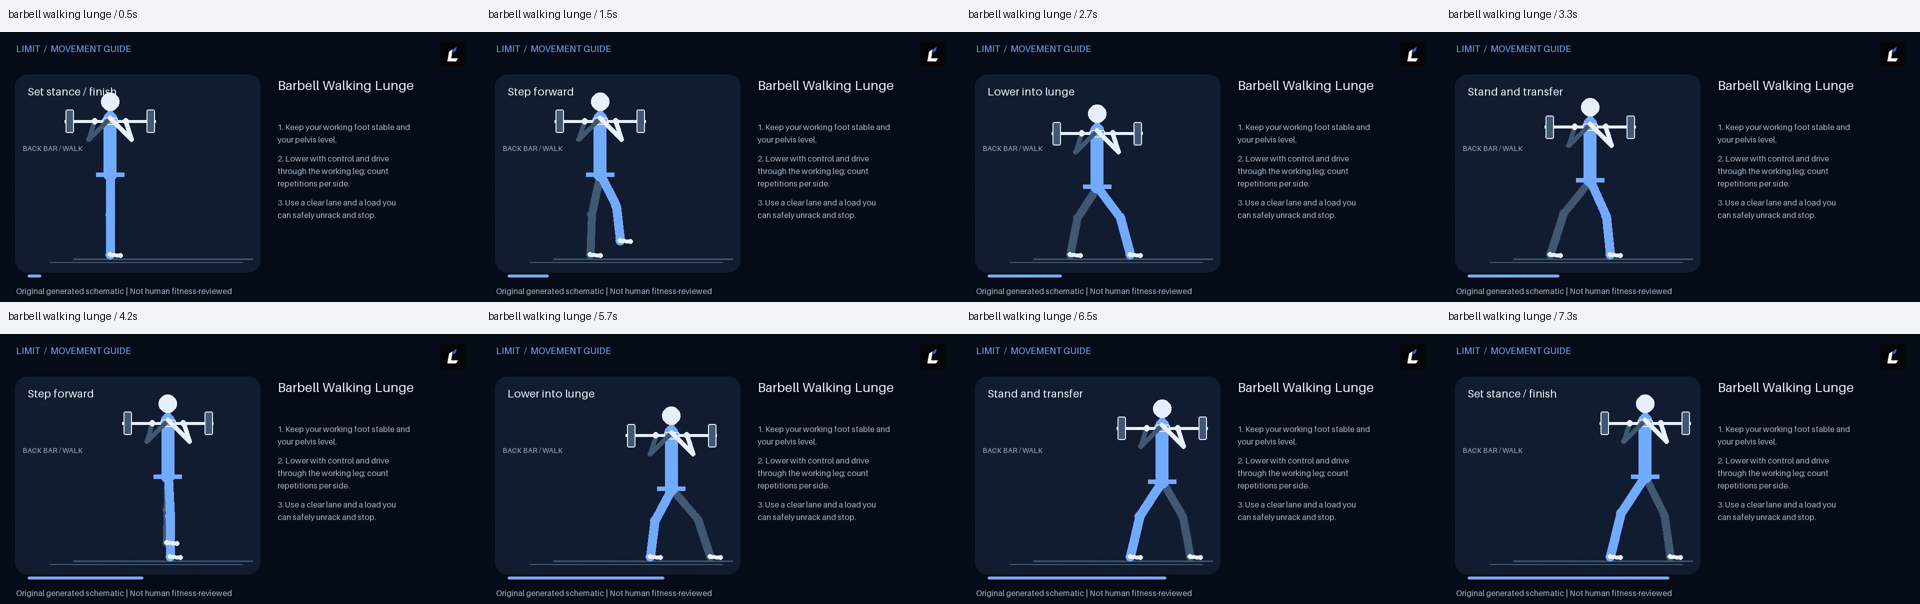
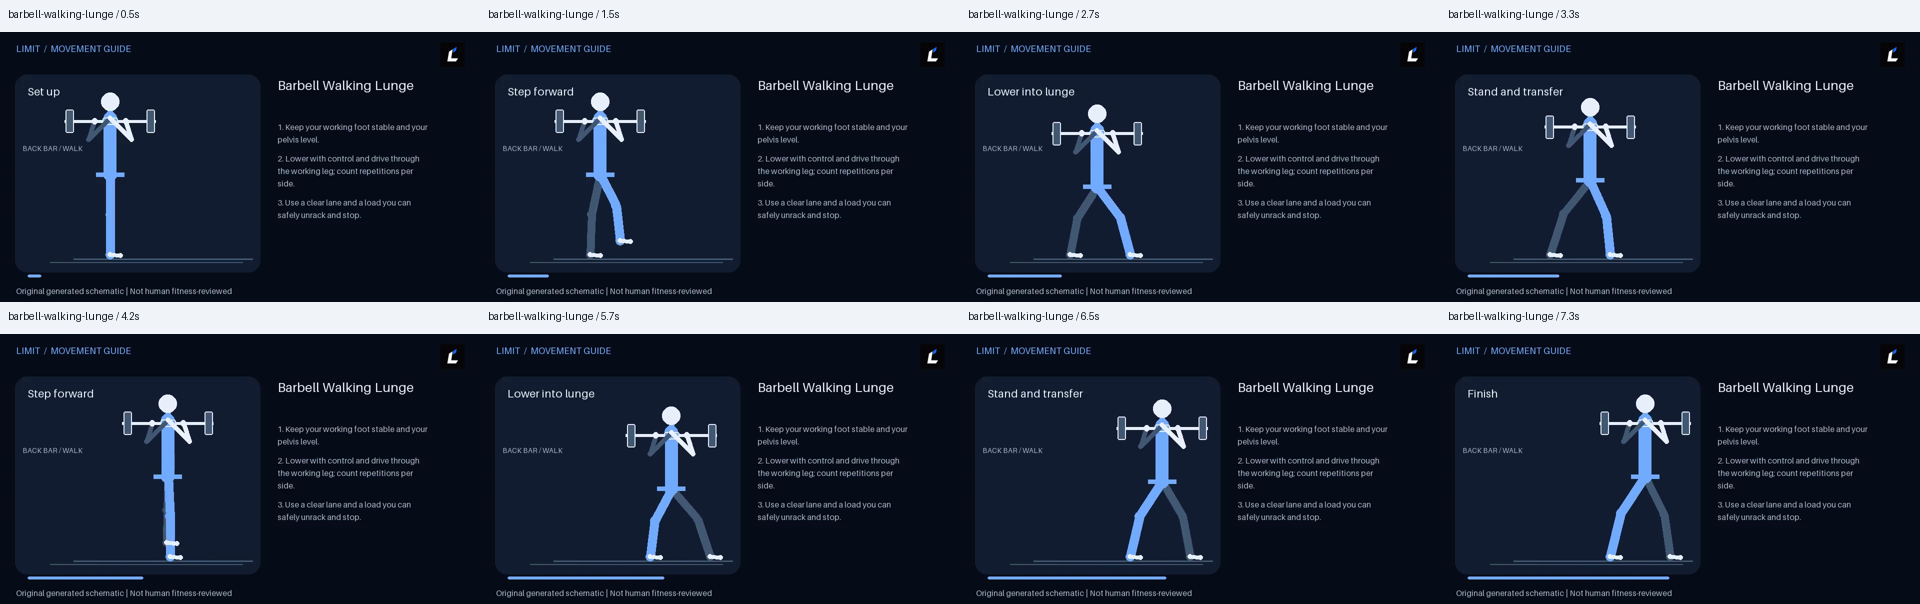
Fit complete movement cues and add machine lateral raise

diff --git a/scripts/media/render.py b/scripts/media/render.py
@@ -168,6 +168,7 @@ TEMPLATES={
  'arnold-press':('overhead-press','arnold-seated'),
  'single-arm-cable-lateral-raise':('cable-shoulder-raise','lateral'),
  'leaning-cable-lateral-raise':('leaning-cable-lateral',None),
+ 'machine-lateral-raise':('machine-lateral',None),
  'cable-front-raise':('cable-shoulder-raise','front'),
  'barbell-bench-press':('barbell-horizontal-press','flat'),
  'incline-barbell-bench-press':('barbell-horizontal-press','incline'),
@@ -1695,6 +1696,39 @@ def draw_pose(d,kind,option,u):
    d.ellipse((hand[0]+8*math.cos(math.pi*u)-3,hand[1]+8*math.sin(math.pi*u)-3,hand[0]+8*math.cos(math.pi*u)+3,hand[1]+8*math.sin(math.pi*u)+3),fill=BLUE)
   else:d.rounded_rectangle((hand[0]-12,hand[1]-5,hand[0]+12,hand[1]+5),3,fill=FAR,outline=INK,width=2)
   d.text((52,237),{'barbell-standing':'STRICT / LEGS STILL','barbell-seated':'SEATED / FRONT PATH','smith-seated':'GUIDED RAIL / STOPS','machine-seated':'SEAT / MOVING LEVER','kettlebell-standing':'BELL RACK TO LOCKOUT','arnold-seated':'ROTATE WHILE PRESSING'}[option],font=FONTS[14],fill=MUTED)
+ elif kind=='machine-lateral':
+  # Front-view seated machine: shoulder-aligned independent lever pivots
+  # carry elbow pads on fixed arcs, with bent forearms gripping the handles.
+  d.rounded_rectangle((260,208,340,347),6,fill=FAR)
+  d.rounded_rectangle((250,347,350,361),4,fill=FAR,outline=INK,width=2)
+  for sx in (263,337):d.line((sx,361,sx,456),fill=FAR,width=7)
+  hip=(300,337);neck=(300,218);head=(300,174)
+  for side in (-1,1):
+   limb(d,[hip,(300+side*51,392),(300+side*63,445)],BLUE,16)
+   line(d,(300+side*63,445),(300+side*80,448),INK,8)
+  line(d,hip,neck,BLUE,28);line(d,neck,head,BLUE,11)
+  d.ellipse((282,154,318,194),fill=INK)
+  for side in (-1,1):
+   pivot=(300+side*31,218)
+   angle=math.pi/2-side*math.pi*u/2 if side>0 else math.pi/2+math.pi*u/2
+   elbow=polar(pivot,72,angle);outer=polar(pivot,111,angle)
+   if abs(math.dist(pivot,elbow)-72)>1e-6 or abs(math.dist(pivot,outer)-111)>1e-6 or elbow[1]<215:raise ValueError('Machine lateral lever path changed')
+   d.line((*pivot,*outer),fill=FAR,width=7)
+   d.ellipse((pivot[0]-9,pivot[1]-9,pivot[0]+9,pivot[1]+9),fill=FAR,outline=INK,width=2)
+   d.ellipse((outer[0]-13,outer[1]-13,outer[0]+13,outer[1]+13),fill=FAR,outline=INK,width=3)
+   limb(d,[pivot,elbow],INK if side>0 else FAR,12)
+   hand=(elbow[0]+side*8,elbow[1]+24)
+   forearm_depth=math.sqrt(60**2-8**2-24**2)
+   if abs(math.dist((elbow[0],elbow[1],0),(hand[0],hand[1],forearm_depth))-60)>1e-6:raise ValueError('Machine lateral bent forearm changed')
+   line(d,elbow,hand,INK if side>0 else FAR,9)
+   d.rounded_rectangle((elbow[0]-11,elbow[1]-9,elbow[0]+11,elbow[1]+9),4,fill=BLUE,outline=INK,width=2)
+   d.rounded_rectangle((hand[0]-7,hand[1]-5,hand[0]+7,hand[1]+5),3,fill=INK)
+  d.text((45,187),'SEAT / ELBOW PADS / LEVERS',font=FONTS[14],fill=MUTED)
+  d.rounded_rectangle((43,371,186,455),7,fill=BG,outline=FAR,width=2)
+  d.text((50,376),'SIDE / BENT ELBOW',font=FONTS[14],fill=MUTED)
+  d.line((76,432,114,410),fill=BLUE,width=8)
+  d.line((114,410,143,426),fill=INK,width=7)
+  d.ellipse((108,404,120,416),fill=BLUE)
  elif kind=='leaning-cable-lateral':
   # The free hand fixes the lean against the column; the opposite arm
   # abducts on an invariant-length shoulder arc with a taut low cable.
@@ -4110,15 +4144,25 @@ def draw_pose(d,kind,option,u):
 def wrap(d,text,x,y,width=39,size=18,color=MUTED):
  for ln in textwrap.wrap(text,width):d.text((x,y),ln,font=FONTS[size],fill=color);y+=size+9
  return y
+def cue_layout(e):
+ # Fit every complete catalog cue in the right panel; fail rather than
+ # silently replace required movement instructions with an ellipsis.
+ y=max(180,90+len(textwrap.wrap(e['name'],24))*35+15)
+ lines=[]
+ for i,cue in enumerate(e.get('instructions',[])[:3]):
+  for ln in textwrap.wrap(f'{i+1}. {cue}',42,break_long_words=False,break_on_hyphens=False):
+   if FONTS[16].getlength(ln)>390:raise ValueError('Exercise cue exceeds panel width: '+e['catalogKey'])
+   lines.append((y,ln));y+=25
+  y+=13
+ if lines and lines[-1][0]+18>490:raise ValueError('Exercise cues exceed panel height: '+e['catalogKey'])
+ return lines
+for item in catalog:cue_layout(item)
 logo=Image.open(root/'public/brand/limit-logo.png').convert('RGBA');logo.thumbnail((110,50))
 def frame(e,t,template=None):
  im=Image.new('RGB',(W,H),BG);d=ImageDraw.Draw(im);d.rounded_rectangle((30,85,520,480),24,fill=CARD)
  d.text((32,22),'LIMIT  /  MOVEMENT GUIDE',font=FONTS[18],fill=BLUE)
  wrap(d,e['name'],555,90,24,26,INK)
- y=max(180,90+len(textwrap.wrap(e['name'],24))*35+15)
- for i,cue in enumerate(e.get('instructions',[])[:3]):
-  short=textwrap.shorten(cue,width=95,placeholder='…')
-  y=wrap(d,f'{i+1}. {short}',555,y,36,16)+13
+ for y,ln in cue_layout(e):d.text((555,y),ln,font=FONTS[16],fill=MUTED)
  if template:
   if template[0]=='alternating-curl':
    u,label=alternating_phase(t);draw_pose(d,'alternating-curl',0 if t<4 else 1,u)
@@ -4133,7 +4177,7 @@ def frame(e,t,template=None):
   elif template[0]=='barbell-hinge' and template[1]=='paused':
    u,label=paused_deadlift_phase(t);draw_pose(d,*template,u)
   elif template[0]=='walking-lunge':
-   label='Step forward' if 1<=t<2 or 3.5<=t<5 else ('Lower into lunge' if 2<=t<3 or 5<=t<6 else ('Stand and transfer' if 3<=t<3.5 or 6<=t<6.7 else 'Set stance / finish'))
+   label='Step forward' if 1<=t<2 or 3.5<=t<5 else ('Lower into lunge' if 2<=t<3 or 5<=t<6 else ('Stand and transfer' if 3<=t<3.5 or 6<=t<6.7 else ('Set up' if t<1 else 'Finish')))
    draw_pose(d,*template,t)
   else:
    u,label=phase(t);draw_pose(d,*template,u)
@@ -4170,6 +4214,7 @@ for e in catalog:
   record['angle']='unspecified'
  if key=='single-arm-cable-lateral-raise':record['angle']='front'
  if key=='leaning-cable-lateral-raise':record['angle']='front'
+ if key=='machine-lateral-raise':record['angle']='front'
  if key=='scapular-pull-up':record['angle']='front'
  if key in ('seated-hip-abduction','seated-hip-adduction','standing-cable-hip-abduction','standing-cable-hip-adduction'):record['angle']='front'
  if key in ('high-cable-curl','cross-body-cable-triceps-extension'):record['angle']='front'

diff --git a/docs/exercise-media.md b/docs/exercise-media.md
@@ -1,6 +1,6 @@
 # Exercise media
 
-The canonical inventory is `media/manifest.json`: 365 exact exercise keys. The renderer now generates 314 original schematics and 365 posters with free local Pillow/FFmpeg tooling. The other 51 movements are **blocked**, not completed videos: the renderer has no reliable exact setup, grip, support and motion template for them. Each CSV/manifest row records the exact exercise, equipment, movement-family geometry gap and final catalog cue. This is an engineering assessment, not per-exercise render validation or human fitness review. Written instructions remain available. No video has human fitness approval.
+The canonical inventory is `media/manifest.json`: 365 exact exercise keys. The renderer now generates 315 original schematics and 365 posters with free local Pillow/FFmpeg tooling. The other 50 movements are **blocked**, not completed videos: the renderer has no reliable exact setup, grip, support and motion template for them. Each CSV/manifest row records the exact exercise, equipment, movement-family geometry gap and final catalog cue. This is an engineering assessment, not per-exercise render validation or human fitness review. Written instructions remain available. No video has human fitness approval.
 
 The seventh batch adds one exact quadruped hip extension guide. Both hands and the support knee remain fixed, the pelvis and trunk stay level, and the working thigh travels behind the hip with constant thigh and shin lengths. [Start, peak and return frames](evidence/quadruped-hip-extension.png) were inspected. The eight-second MP4 decoded all 192 frames and completed local headless Chromium playback to 8.0 seconds with 192 video frames. Human fitness review remains absent.
 
@@ -303,10 +303,14 @@ The hundred-and-nineteenth batch adds `machine-hip-thrust` with a fixed machine 
 
[1 lines of base64/hex data omitted]
 
[2 lines of base64/hex data omitted]
 
[1 lines of base64/hex data omitted]
 
[2 lines of base64/hex data omitted]
 
[2 lines of base64/hex data omitted]
+
[1 lines of base64/hex data omitted]
+
[1 lines of base64/hex data omitted]

diff --git a/docs/exercise-media-blocked-inventory.md b/docs/exercise-media-blocked-inventory.md
@@ -1,6 +1,6 @@
 # Remaining exercise media engineering gaps
 
-Snapshot from `media/manifest.json` at 314 technical videos, 51 blocked variants and zero human fitness approvals. These are exact-key engineering gaps. Written movement instructions remain available. A block reason is not a failed human fitness review.
+Snapshot from `media/manifest.json` at 315 technical videos, 50 blocked variants and zero human fitness approvals. These are exact-key engineering gaps. Written movement instructions remain available. A block reason is not a failed human fitness review.
 
 | Exact key | Current blocking reason |
 | --- | --- |
@@ -11,7 +11,6 @@ Snapshot from `media/manifest.json` at 314 technical videos, 51 blocked variants
 | `pike-push-up` | Pike Push-Up: needs the inverted hip setup and near-vertical shoulder press path rather than a horizontal push-up path. |
 | `wall-handstand-push-up` | Wall Handstand Push-Up: needs a wall, inverted body support and vertical pressing path with a controlled head clearance. |
 | `behind-the-body-cable-lateral-raise` | Behind-the-Body Cable Lateral Raise: current renderer lacks arm travel out to the side with stable trunk and elbow angle; it also lacks an anchored pulley, taut cable, handle and changing line of pull. This variation requires "Use a comfortable starting position, not an exaggerated stretch". Add exact setup and phase-specific joint/support constraints before generating a video. |
-| `machine-lateral-raise` | Machine Lateral Raise: current renderer lacks arm travel out to the side with stable trunk and elbow angle; it also lacks the actual seat, pads, lever or sled and safe contact points. This variation requires "Align the pads and seat with the machine's instructions". Add exact setup and phase-specific joint/support constraints before generating a video. |
 | `pendulum-squat` | Pendulum Squat: current renderer lacks foot support, knee tracking, hip depth and the specified stance/load setup; it also lacks the actual seat, pads, lever or sled and safe contact points. This variation requires "Set the safety stop before adding load". Add exact setup and phase-specific joint/support constraints before generating a video. |
 | `landmine-squat` | Landmine Squat: a constant-length bar from the fixed pivot currently drives the chest-held end away from the squat torso at depth; this needs a coupled pivot, torso and foot-contact rig before a video can be generated. |
 | `landmine-reverse-lunge` | Landmine Reverse Lunge: current renderer lacks each foot or box contact, pelvis level and the specified step or descent direction; it also lacks a fixed bar pivot and its arcing load path. This variation requires "Secure the attachment and keep the bar end near your chest". Add exact setup and phase-specific joint/support constraints before generating a video. |
